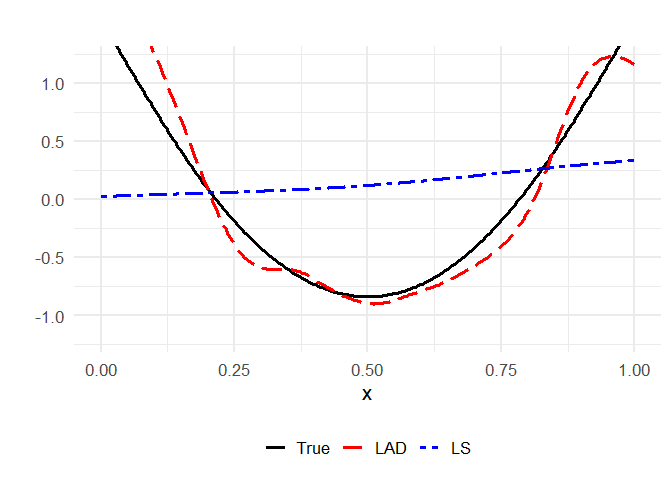
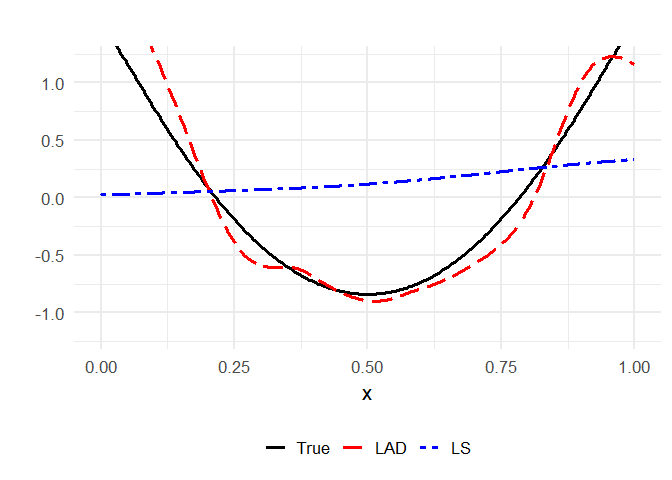
Updates

diff --git a/README.md b/README.md
@@ -177,11 +177,10 @@ Let us now consider a more complex example with two dimensional
 predictors $\mathbf{x}_1, \ldots, \mathbf{x}_n \subset [0,1]^2$. The
 data are generated according to
 
-$$y_i = \sum_{j=1}^{25} \sum_{k=1}^{25} (j k)^{-(2 \beta + 0.6)} \sin(2 \pi j  x_{i1}) \sin(2 \pi k x_{i2}) + \epsilon_i, \quad (i=1, \ldots, n),$$
-for $\beta = 0.75$ and $\epsilon_i$ i.i.d. Gaussian or $t_2$.
-
-We compare the true regression surface with the least-squares (LS) and
-least-absolute-deviation (LAD) tensor RKHS estimates.
+$$y_i = \sum_{j=1}^{25} \sum_{k=1}^{25} (j k)^{-(2 \beta + 2/3)} \sin(2 \pi j  x_{i1}) \sin(2 \pi k x_{i2}) + \epsilon_i, \quad (i=1, \ldots, n),$$
+for $\epsilon_i$ i.i.d. Gaussian or $t_2$.We compare the true regression
+surface with the least-squares (LS) and least-absolute-deviation (LAD)
+tensor RKHS estimates.
 
 ``` r
 set.seed(2)
@@ -231,18 +230,24 @@ df$method <- factor(df$method,
 
 # Plot
 z_range <- range(f_true)
-padding <- 0.05 * diff(z_range)
 
 ggplot(df, aes(x1, x2, fill = z)) +
   geom_tile() +
   facet_wrap(~ method, ncol = 3) +
   scale_fill_viridis_c(option = "C",
-                       limits = z_range + c(-padding, padding),
+                       limits = z_range,
                        oob = scales::squish) +
-  coord_fixed() +
   theme_minimal(base_size = 13) +
-  labs(x = "", y = "", fill = "f(x)") +
-  theme(strip.text = element_text(face = "bold"))
+  labs(x = "", y = "", title = "", fill = "f(x)") +
+  theme(
+    panel.spacing = unit(0, "lines"),
+    plot.margin = margin(0, 0, 0, 0),
+    strip.text = element_blank(),
+    legend.text = element_text(size = 20),
+    axis.text = element_text(size = 7, colour = "black"),
+    axis.ticks.length = unit(1.5, "mm"),
+    legend.title = element_blank(),
+  ) + guides(fill = guide_colorbar(barwidth = 1.5, barheight = 10))
 ```
 
 ![](README_files/figure-gfm/unnamed-chunk-8-1.png)<!-- -->
@@ -267,19 +272,26 @@ df <- rbind(
   data.frame(x1 = grid$x1, x2 = grid$x2, z = f_ls,   method = "LS"),
   data.frame(x1 = grid$x1, x2 = grid$x2, z = f_q,    method = "LAD")
 )
-
 df$method <- factor(df$method,
                     levels = c("True", "LS", "LAD"))
 
 ggplot(df, aes(x1, x2, fill = z)) +
   geom_tile() +
   facet_wrap(~ method, ncol = 3) +
-  scale_fill_viridis_c(option = "C", 
-                       limits = c(z_range[1] - padding, z_range[2] + padding)) +  
-  coord_fixed() +
+  scale_fill_viridis_c(option = "C",
+                       limits = z_range,
+                       oob = scales::squish) +
   theme_minimal(base_size = 13) +
-  labs(x = "", y = "", fill = "f(x)") +
-  theme(strip.text = element_text(face = "bold"))
+  labs(x = "", y = "", title = "", fill = "f(x)") +
+  theme(
+    panel.spacing = unit(0, "lines"),
+    plot.margin = margin(0, 0, 0, 0),
+    strip.text = element_blank(),
+    legend.text = element_text(size = 20),
+    axis.text = element_text(size = 7, colour = "black"),
+    axis.ticks.length = unit(1.5, "mm"),
+    legend.title = element_blank(),
+  ) + guides(fill = guide_colorbar(barwidth = 1.5, barheight = 10))
 ```
 
 ![](README_files/figure-gfm/unnamed-chunk-9-1.png)<!-- -->
